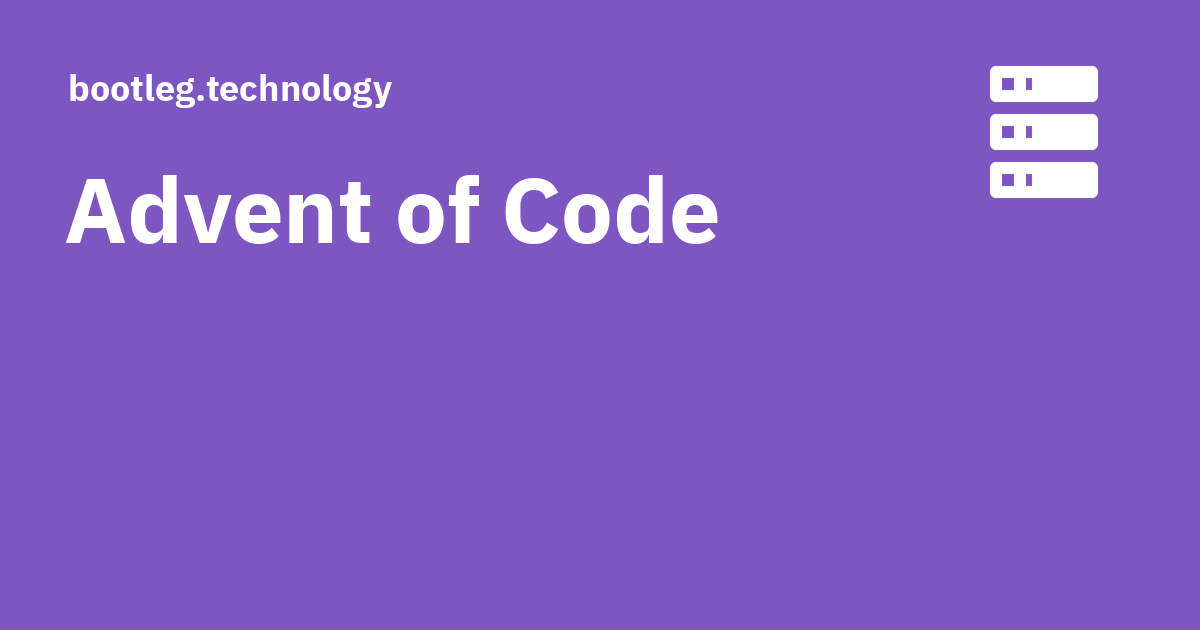
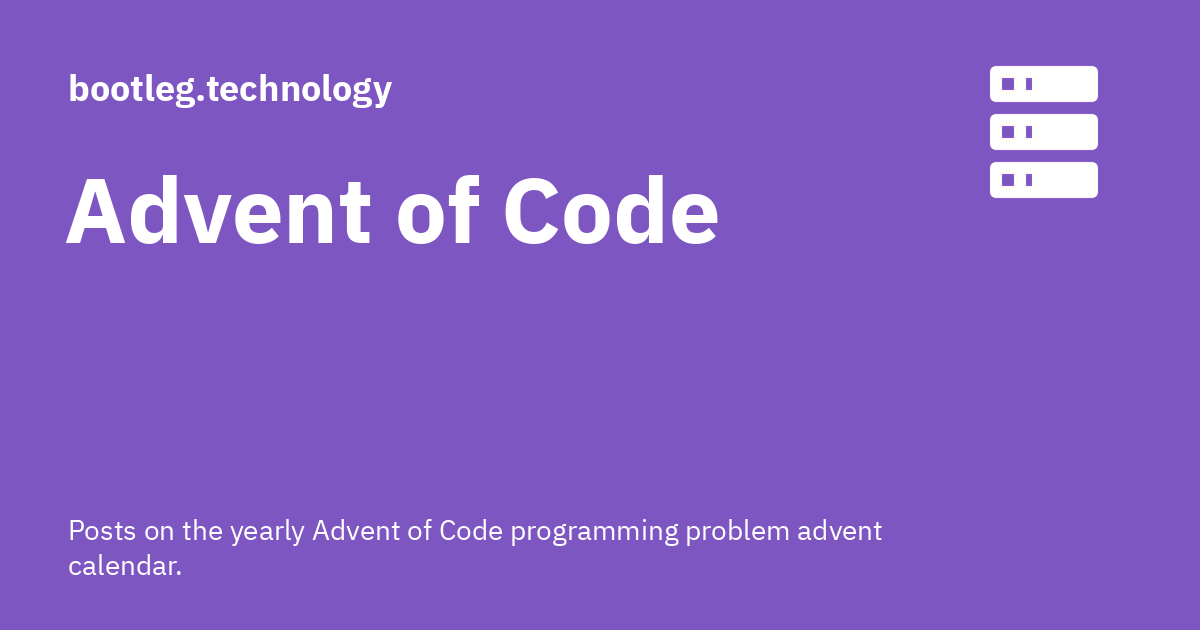
Deployed 5358567 with MkDocs version: 1.4.2

Changed region(s): [[0.0617, 0.8143, 0.74, 0.9349]]

diff --git a/blog/category/advent-of-code/index.html b/blog/category/advent-of-code/index.html
@@ -6,6 +6,8 @@
       <meta charset="utf-8">
       <meta name="viewport" content="width=device-width,initial-scale=1">
       
+        <meta name="description" content="Posts on the yearly Advent of Code programming problem advent calendar.">
+      
       
       
         <link rel="canonical" href="https://bootleg.technology/blog/category/advent-of-code/">
@@ -63,7 +65,7 @@
       
         <meta  property="og:title"  content="Advent of Code - bootleg.technology" >
       
-        <meta  property="og:description"  content="None" >
+        <meta  property="og:description"  content="Posts on the yearly Advent of Code programming problem advent calendar." >
       
         <meta  property="og:image"  content="https://bootleg.technology/assets/images/social/blog/category/advent-of-code.png" >
       
@@ -79,7 +81,7 @@
       
         <meta  name="twitter:title"  content="Advent of Code - bootleg.technology" >
       
-        <meta  name="twitter:description"  content="None" >
+        <meta  name="twitter:description"  content="Posts on the yearly Advent of Code programming problem advent calendar." >
       
         <meta  name="twitter:image"  content="https://bootleg.technology/assets/images/social/blog/category/advent-of-code.png" >
       
@@ -557,6 +559,7 @@
     <div class="md-content__inner">
       <header class="md-typeset">
         <h1 id="advent-of-code">Advent of Code</h1>
+<p>Posts on the yearly <a href="https://adventofcode.com/">Advent of Code</a> programming problem advent calendar.</p>
       </header>
       
         <article class="md-post md-post--excerpt">
